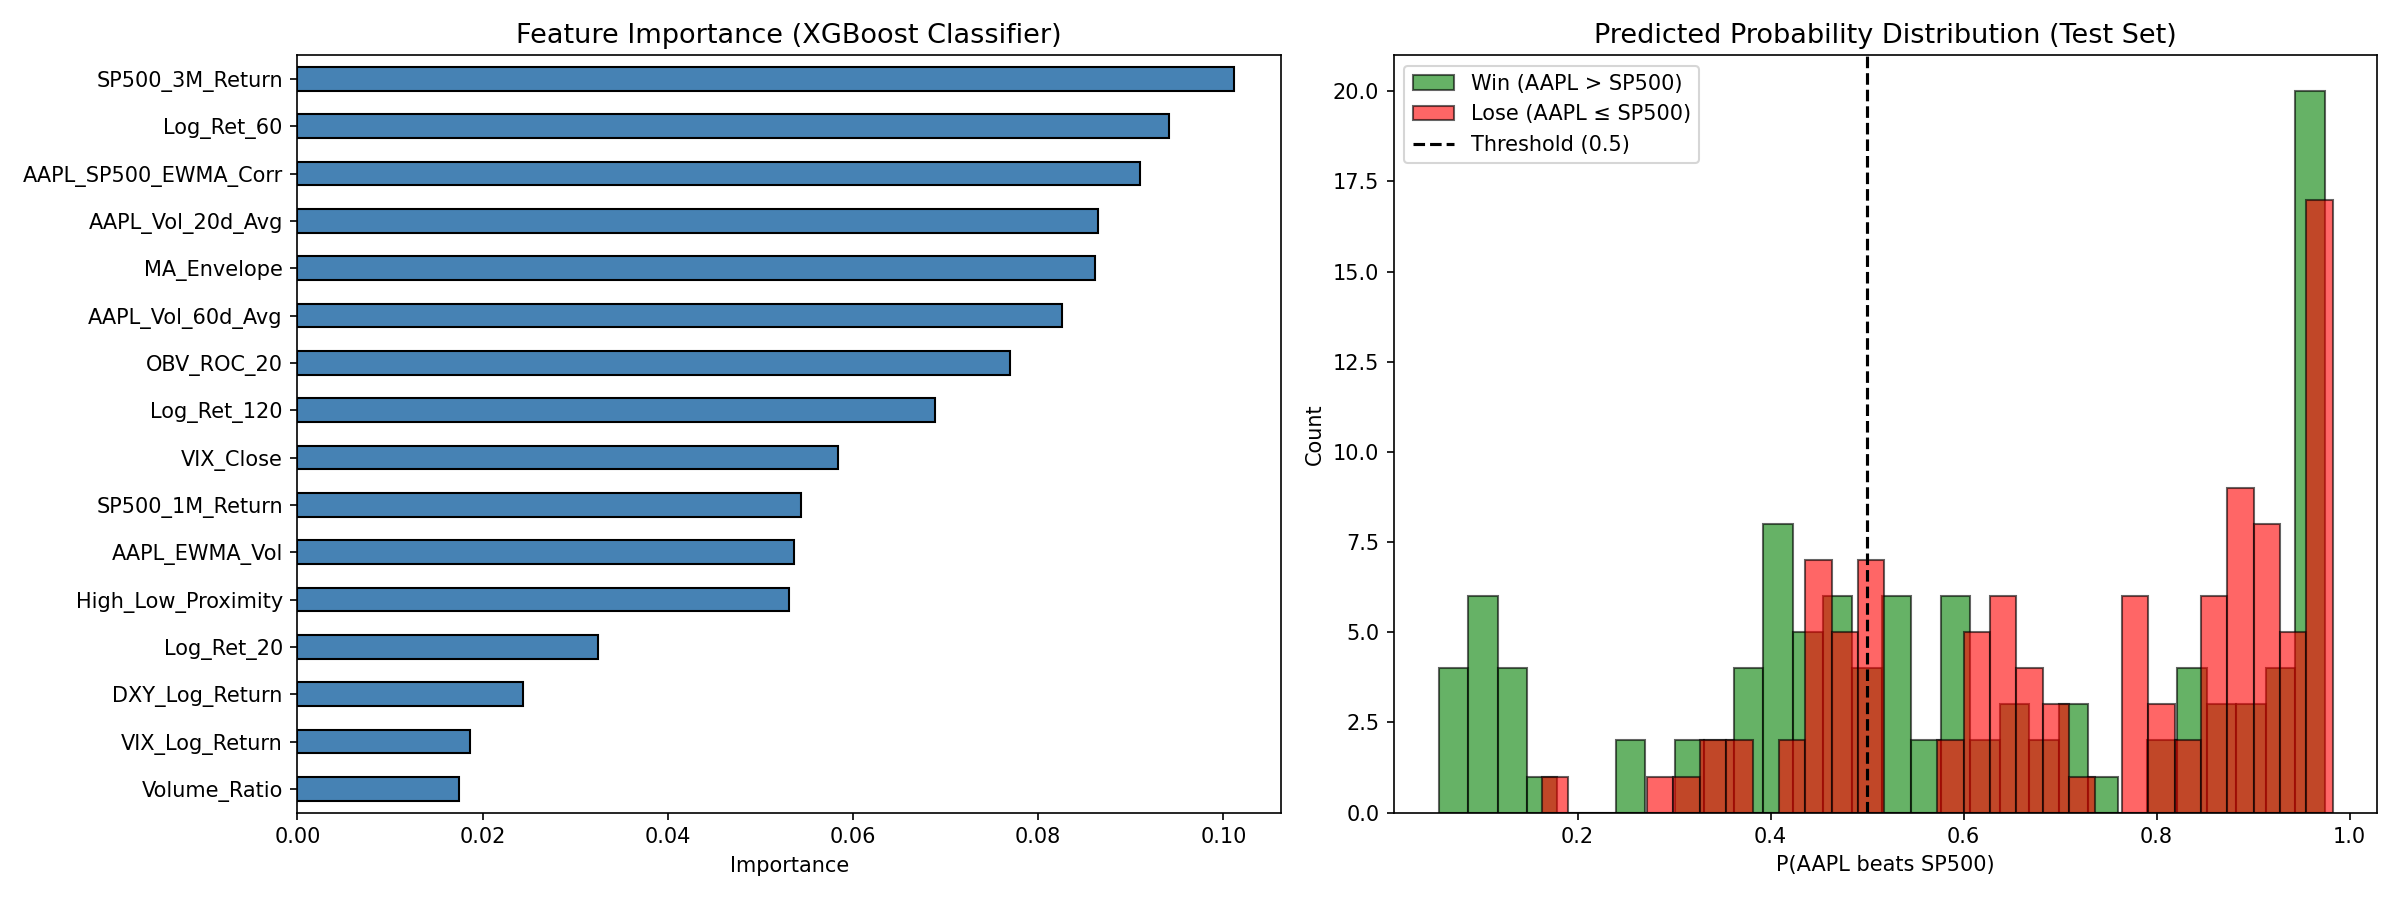
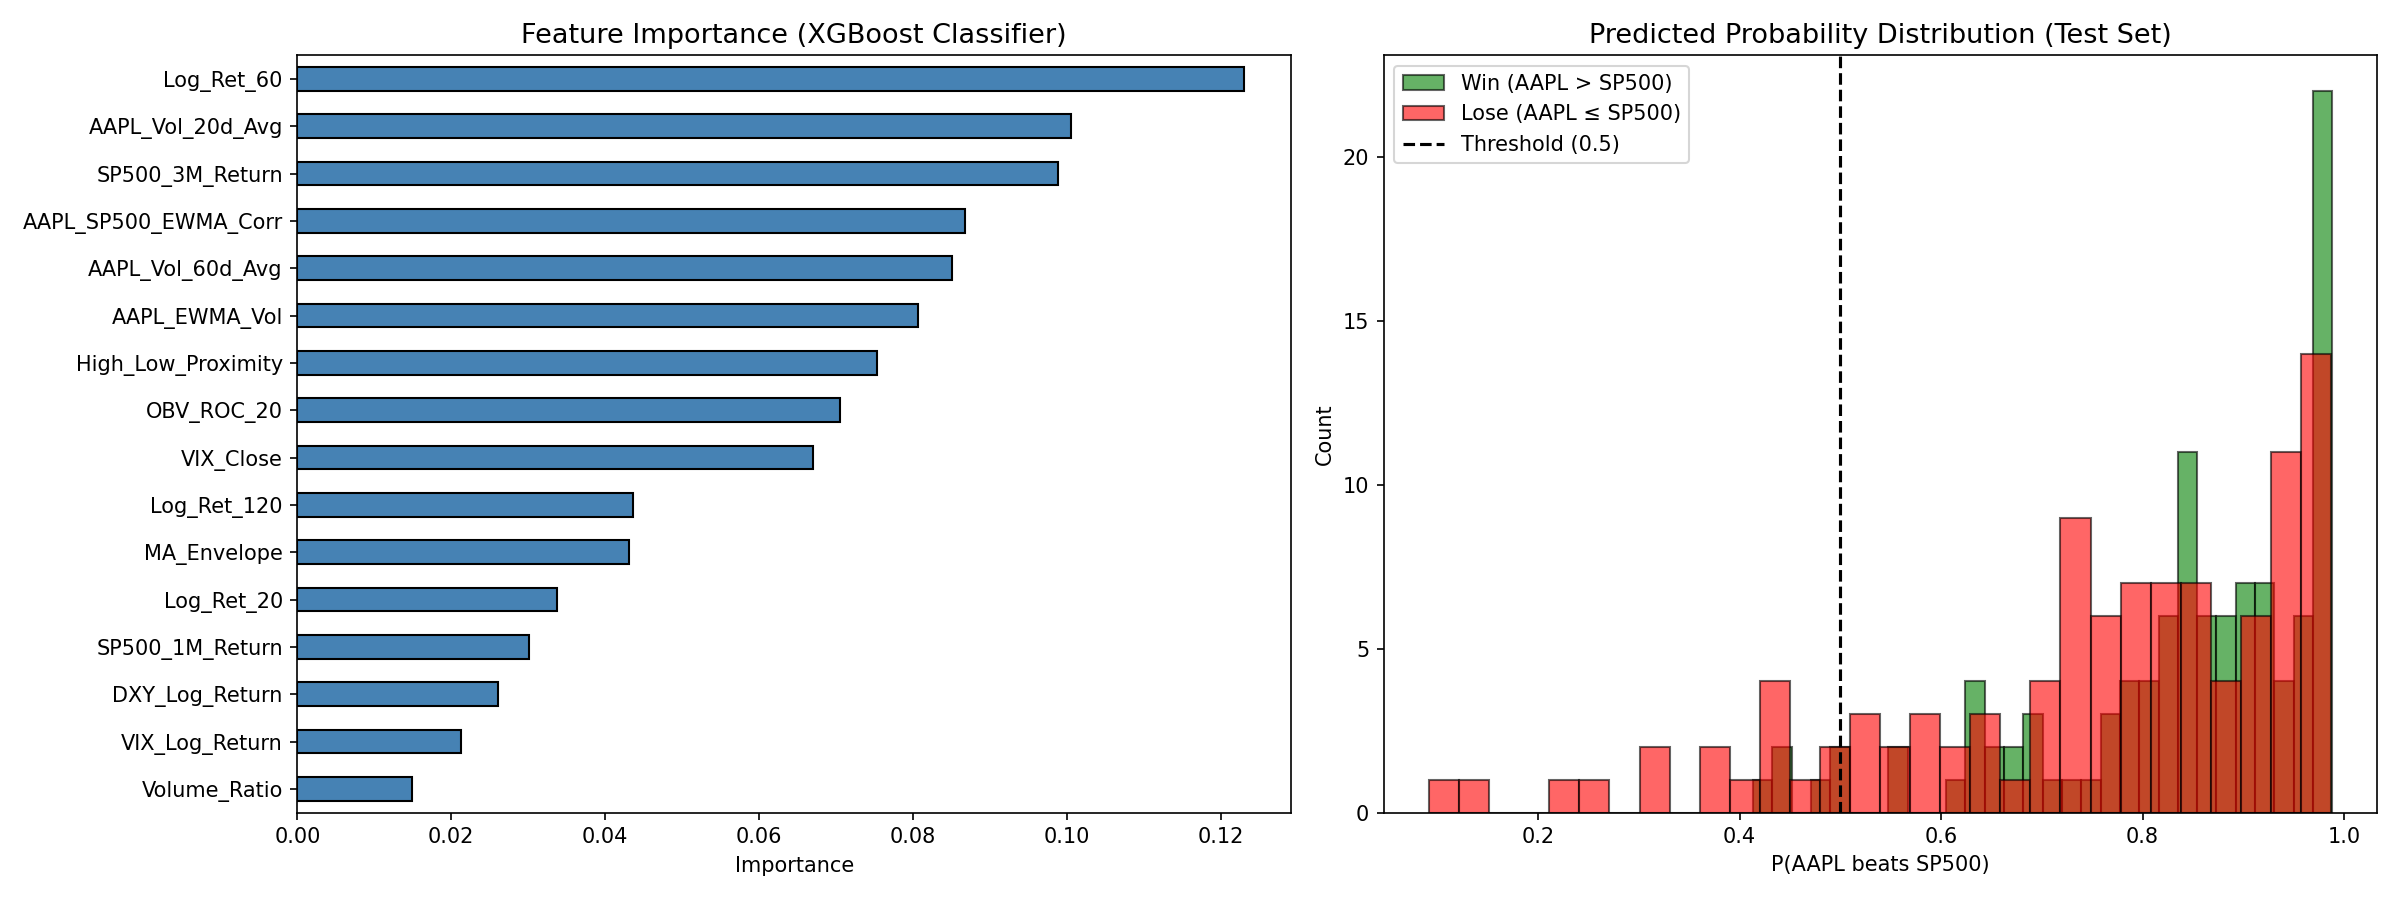
Upgrade the Classification Model

diff --git a/Classification/xgboost_classifier_model.py b/Classification/xgboost_classifier_model.py
@@ -3,7 +3,7 @@ XGBoost Classification 및 퀀트 모델 평가 모듈
 
 파이프라인:
   1. generate_target() → 피처 + 타겟이 포함된 Master DataFrame 로드
-  2. Train (2016.01~2024.09) / Test (2025.01~현재) 분할
+  2. Train (2021.01~2024.09) / Test (2025.01~현재) 분할
   3. XGBClassifier 학습 (규제 적용, 과적합 방지)
   4. 퀀트 평가: Accuracy, Precision, IC (Information Coefficient), Feature Importance
 
@@ -50,7 +50,8 @@ def train_and_evaluate_xgboost():
     df_valid = df.dropna(subset=["Target_Class"])
 
     # Train / Test 분할
-    train_df = df_valid.loc["2016-01-01":"2024-09-30"]
+    # ★ Lookback Window 축소: 최근 국면(2021~)만 학습하여 Regime Shift 대응
+    train_df = df_valid.loc["2021-01-01":"2024-09-30"]
     test_df = df_valid.loc["2025-01-01":]
 
     X_train = train_df[feature_cols]
@@ -70,6 +71,11 @@ def train_and_evaluate_xgboost():
     print("2. XGBoost 모델 학습 (Classifier)")
     print("=" * 70)
 
+    # ★ Class 불균형(Imbalance) 보정
+    # scale_pos_weight = (Class 0 수) / (Class 1 수)
+    ratio = float(np.sum(y_train == 0)) / max(np.sum(y_train == 1), 1)
+    print(f"  Class 불균형 보정: scale_pos_weight = {ratio:.4f}")
+
     # 퀀트 모델 특화 규제(Regularization) 파라미터 적용
     # 얕은 트리(depth=3) + 무작위 샘플링 → 과적합 방지
     model = XGBClassifier(
@@ -78,6 +84,7 @@ def train_and_evaluate_xgboost():
         learning_rate=0.05,
         subsample=0.8,
         colsample_bytree=0.8,
+        scale_pos_weight=ratio,
         random_state=42,
         eval_metric="logloss",
     )
